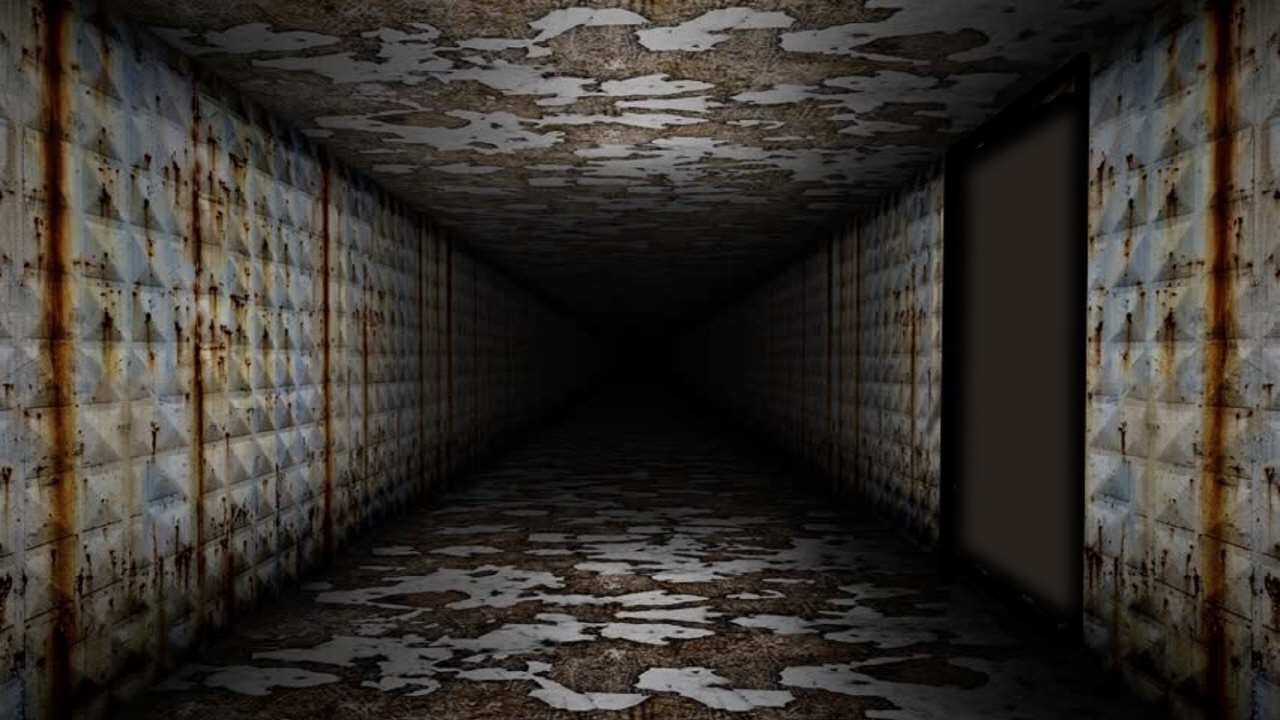
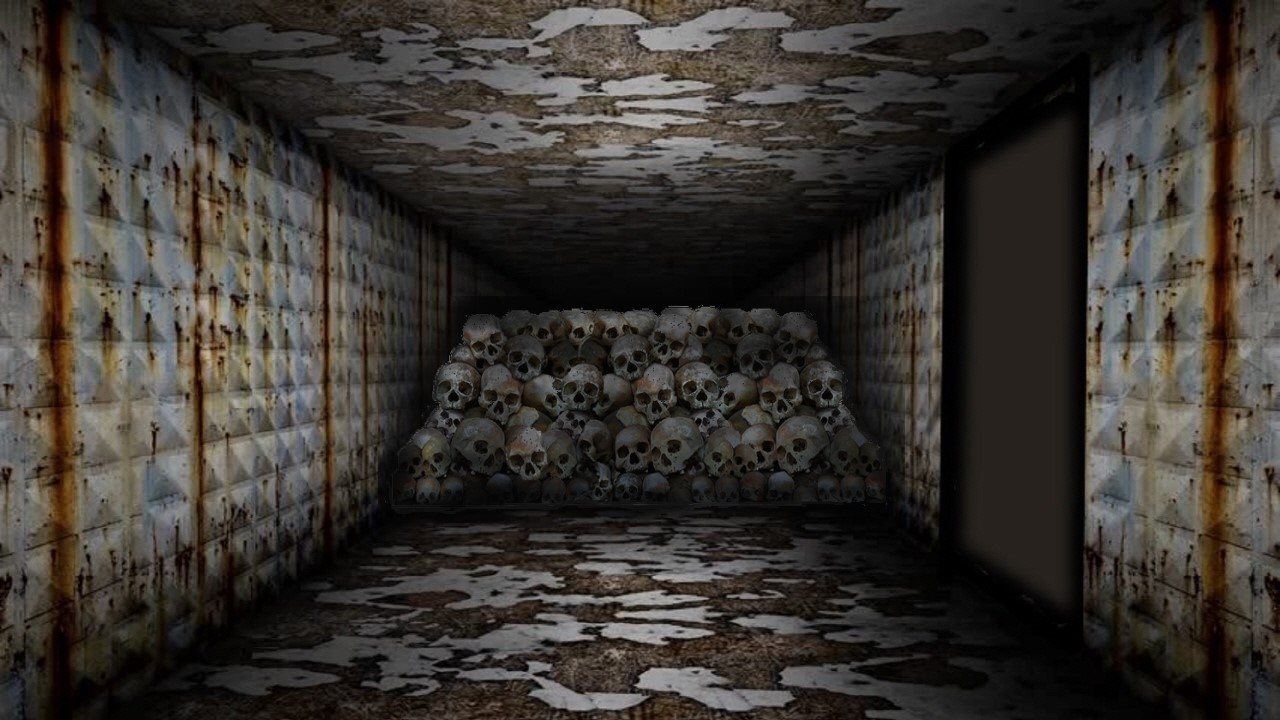
미로완료
전 방과 연결

Changed region(s): [[0.2812, 0.4278, 0.7188, 0.7333]]

diff --git a/maze.js b/maze.js
@@ -315,12 +315,17 @@ maze[15].mzShape[0].Down.locate(640,600)
 maze[15].mzShape[0].Ending = new Object(maze[15].mzShape[0],'Ending','화살표-위.png')
 maze[15].mzShape[0].Ending.locate(640,540)
 maze[15].mzShape[0].Ending.resize(50)
+maze[15].mzShape[0].Edladder = new Object(maze[15].mzShape[0],'Edladder','사다리mz.png')
+maze[15].mzShape[0].Edladder.locate(640,320)
+maze[15].mzShape[0].Edladder.resize(280)
 maze[15].mzShape[0].Ending.onClick = function(){
 	Game.end()
 }
-//maze[15].mzShape[0].Up.locate(640,560)
+
 
 
 //---------------시작-------------------//
 
-Game.start(maze[0].mzShape[0])
+Game.start(maze[15].mzShape[0])
+game.setTimer(300,1,"sec")
+game.showTimer()
